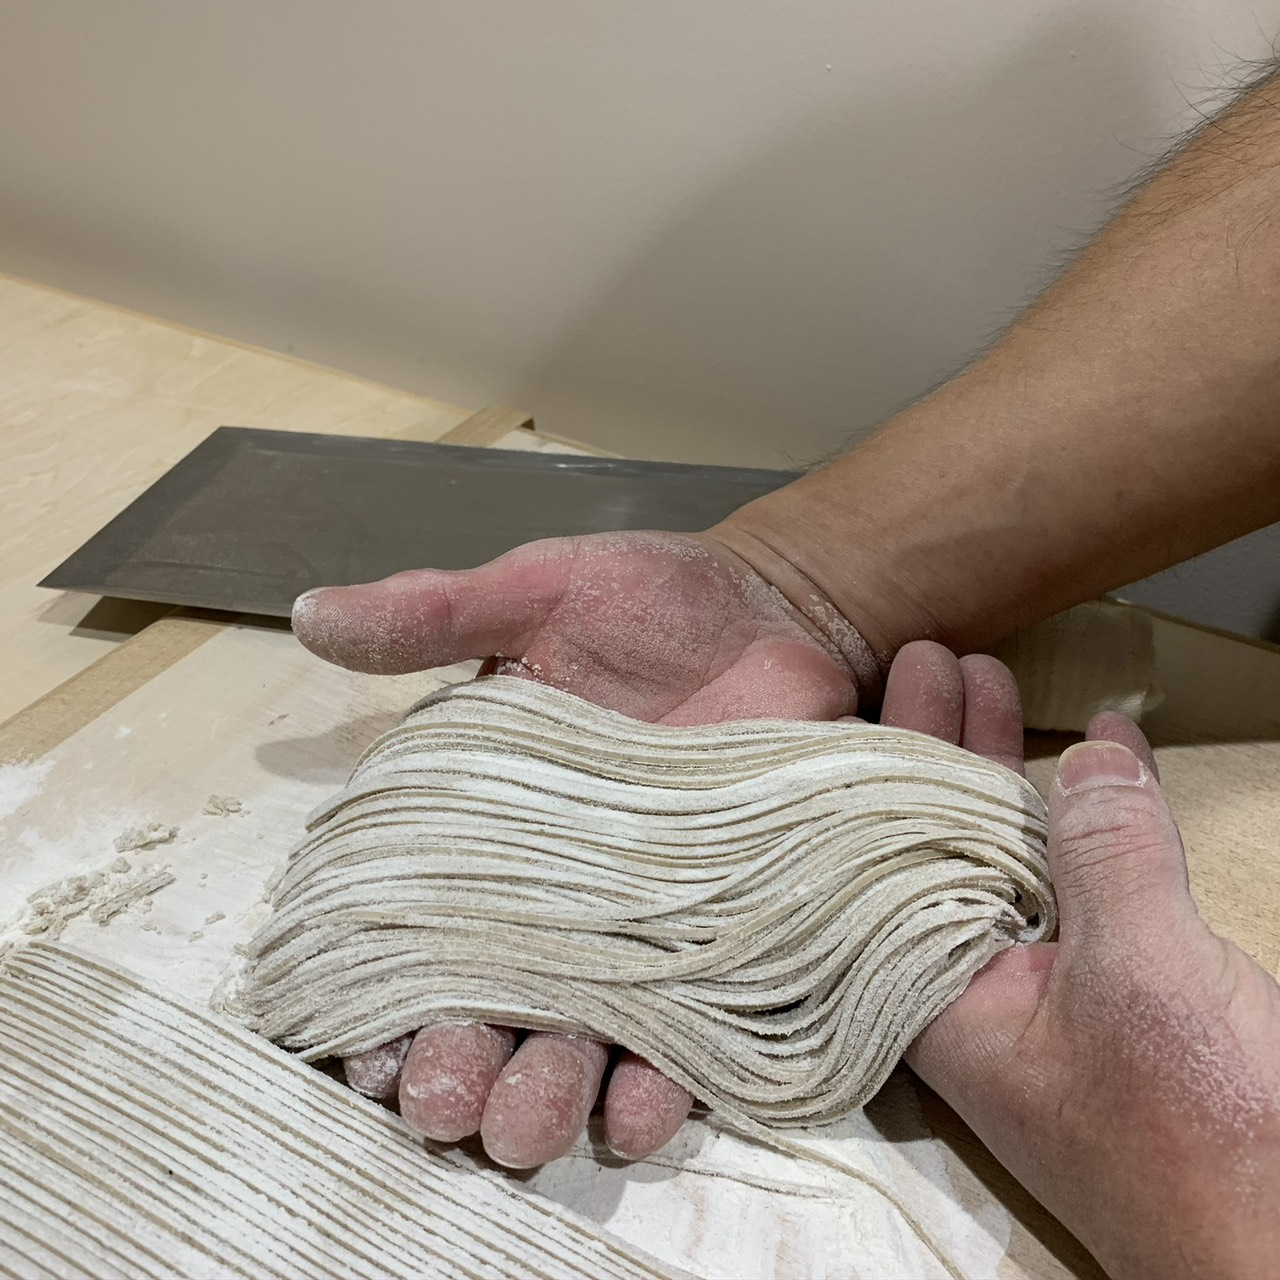
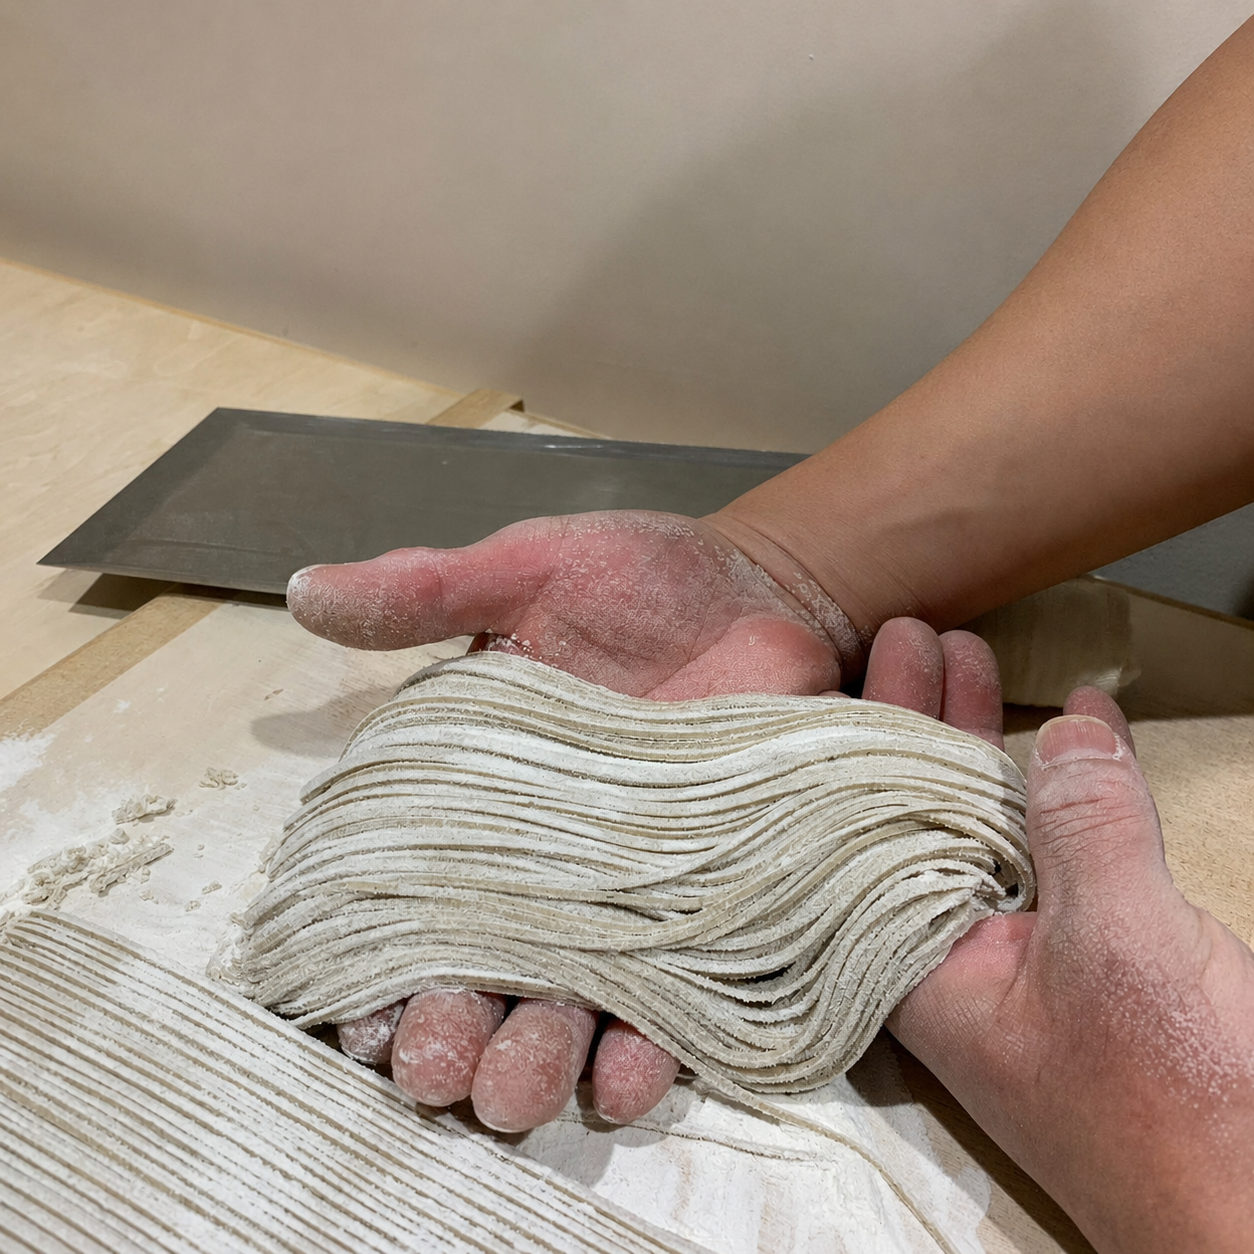
Add files via upload

diff --git a/css/kodawari-responsive.css b/css/kodawari-responsive.css
@@ -1425,3 +1425,209 @@
     height: 210px !important;
   }
 }
+/* =========================================================
+   こだわりページ 03：JAピンネ「牡丹そば」のぼり画像
+========================================================= */
+
+.kodawari-material__photo {
+  width: min(100%, 760px);
+  margin: 28px auto 0;
+  overflow: hidden;
+  border-radius: 6px;
+  box-shadow: 0 6px 18px rgba(46, 74, 62, .08);
+}
+
+.kodawari-material__photo img {
+  display: block;
+  width: 100%;
+  height: auto;
+  object-fit: cover;
+}
+
+/* スマホ表示 */
+@media (max-width: 767px) {
+  .kodawari-material__photo {
+    width: 100%;
+    margin-top: 26px;
+    border-radius: 4px;
+  }
+}
+/* =========================================================
+   こだわりページ 03：牡丹そば画像 + ポイントカード
+========================================================= */
+
+.kodawari-material__visual {
+  display: grid;
+  grid-template-columns: minmax(0, 1.05fr) minmax(360px, 0.95fr);
+  gap: 32px;
+  align-items: stretch;
+  margin-top: 32px;
+}
+
+.kodawari-material__photo {
+  width: 100%;
+  margin: 0;
+  overflow: hidden;
+  border-radius: 6px;
+  box-shadow: 0 6px 18px rgba(46, 74, 62, 0.08);
+}
+
+.kodawari-material__photo img {
+  display: block;
+  width: 100%;
+  height: 100%;
+  min-height: 300px;
+  object-fit: cover;
+  object-position: center center;
+}
+
+.kodawari-material__visual .kodawari-points {
+  display: grid;
+  grid-template-columns: repeat(2, minmax(0, 1fr));
+  gap: 18px;
+  margin: 0;
+  align-content: center;
+}
+
+.kodawari-material__visual .kodawari-points__item {
+  display: flex;
+  align-items: center;
+  justify-content: center;
+  min-height: 92px;
+  padding: 18px 16px;
+  border: 1px solid rgba(46, 74, 62, 0.34);
+  background: rgba(255, 255, 255, 0.42);
+  color: #284f41;
+  font-family: "Noto Serif JP", serif;
+  font-size: 1.05rem;
+  font-weight: 600;
+  line-height: 1.6;
+  letter-spacing: 0.06em;
+  text-align: center;
+}
+
+/* スマホ表示 */
+@media (max-width: 767px) {
+  .kodawari-material__visual {
+    display: block;
+    margin-top: 28px;
+  }
+
+  .kodawari-material__photo {
+    width: 100%;
+    margin: 0 0 24px;
+    border-radius: 4px;
+  }
+
+  .kodawari-material__photo img {
+    width: 100%;
+    height: auto;
+    min-height: 0;
+    object-fit: contain;
+  }
+
+  .kodawari-material__visual .kodawari-points {
+    display: grid;
+    grid-template-columns: 1fr;
+    gap: 14px;
+    margin: 0;
+  }
+
+  .kodawari-material__visual .kodawari-points__item {
+    min-height: 72px;
+    padding: 16px 14px;
+    font-size: 1rem;
+  }
+}
+
+/* =========================================================
+   こだわりページ 04：鴨せいろセクション左右反転
+   PC：左に文章 / 右に画像
+   SP：縦並びを維持
+========================================================= */
+
+@media (min-width: 768px) {
+  .kodawari-duck {
+    display: grid;
+    grid-template-columns: minmax(420px, 0.95fr) minmax(0, 1.05fr);
+    gap: 40px;
+    align-items: stretch;
+  }
+
+  .kodawari-duck__content {
+    order: 1;
+  }
+
+  .kodawari-duck__media {
+    order: 2;
+    margin: 0;
+  }
+
+  .kodawari-duck__media img {
+    display: block;
+    width: 100%;
+    height: 100%;
+    min-height: 420px;
+    object-fit: cover;
+    object-position: center center;
+  }
+}
+
+/* =========================================================
+   04 鴨せいろ画像：スマホ時の余分な下余白を削除
+========================================================= */
+
+@media (max-width: 767px) {
+  .kodawari-duck__media {
+    width: 100%;
+    margin: 0 0 32px;
+    padding: 0;
+    height: auto;
+    min-height: 0;
+    background: transparent;
+    box-shadow: none;
+  }
+
+  .kodawari-duck__media img {
+    display: block;
+    width: 100%;
+    height: auto;
+    min-height: 0;
+    object-fit: contain;
+    object-position: center center;
+    border-radius: 6px;
+  }
+}
+/* =========================================================
+   04 鴨せいろ画像：スマホ時の余白完全修正
+   原因：過去の aspect-ratio: 1 / 1.22 が残っていたため
+========================================================= */
+
+@media (max-width: 767px) {
+  .kodawari-duck__media {
+    display: block !important;
+    width: calc(100% - 48px) !important;
+    height: auto !important;
+    min-height: 0 !important;
+    aspect-ratio: auto !important;
+    margin: 0 auto 32px !important;
+    padding: 0 !important;
+    overflow: hidden !important;
+    border-radius: 4px !important;
+    background: transparent !important;
+    box-shadow: 0 4px 14px rgba(46, 74, 62, .08) !important;
+    line-height: 0 !important;
+  }
+
+  .kodawari-duck__media img {
+    display: block !important;
+    width: 100% !important;
+    height: auto !important;
+    min-height: 0 !important;
+    aspect-ratio: auto !important;
+    object-fit: initial !important;
+    object-position: center center !important;
+    background: transparent !important;
+    border-radius: 4px !important;
+  }
+}

diff --git a/css/style.css b/css/style.css
@@ -2812,27 +2812,33 @@ select {
   width: 100%;
 }
 
+/* =========================================================
+   こだわりページ 03：牡丹そばポイントカード
+========================================================= */
+
 .kodawari-points {
   display: grid;
-  grid-template-columns: repeat(4, minmax(0, 1fr));
-  gap: 14px;
-  margin-top: 24px;
+  grid-template-columns: repeat(2, 1fr);
+  gap: 16px 20px;
+  margin-top: 32px;
 }
 
 .kodawari-points__item {
+  min-height: 72px;
+  padding: 18px 20px;
+  border: 1px solid rgba(46, 74, 62, 0.35);
+  border-radius: 4px;
+  background: rgba(255, 255, 255, 0.28);
+  color: #244d3f;
+  font-family: "Noto Serif JP", serif;
+  font-size: 1rem;
+  font-weight: 600;
+  letter-spacing: 0.06em;
+  line-height: 1.6;
   display: flex;
   align-items: center;
   justify-content: center;
-  min-height: 72px;
-  padding: 14px 16px;
   text-align: center;
-  font-family: var(--font-serif);
-  font-size: .96rem;
-  line-height: 1.65;
-  color: var(--c-primary);
-  background: rgba(250, 246, 240, .88);
-  border: 1px solid rgba(46, 74, 62, .24);
-  border-radius: 4px;
 }
 
 .kodawari-cta {

diff --git a/kodawari.html b/kodawari.html
@@ -137,18 +137,25 @@
         <div class="kodawari-material">
           <div class="kodawari-block__label">03</div>
           <h2 class="kodawari-block__title">北海道浦臼産そば粉「牡丹」</h2>
+    
           <p class="kodawari-material__text">
             幻庵では、北海道浦臼産のそば粉「牡丹」を使用しています。<br>
             「牡丹」は生産量が少なく、安定して仕入れることが難しい希少価値のある品種です。北海道内でも使用している店舗は多くありません。<br>
-            また、幻庵はJAから認定を受けた蕎麦店として、北海道産そば粉の風味を大切にした一杯をお届けしています。
+            また、幻庵ではJAピンネの「牡丹そば」を使用し、北海道産そば粉の風味を大切にした一杯をお届けしています。
           </p>
-          <div class="kodawari-points">
-            <div class="kodawari-points__item">北海道浦臼産</div>
-            <div class="kodawari-points__item">そば粉「牡丹」使用</div>
-            <div class="kodawari-points__item">JA認定蕎麦店</div>
-            <div class="kodawari-points__item">希少な品種</div>
+    
+          <div class="kodawari-material__visual">
+            <figure class="kodawari-material__photo">
+              <img src="images/ja-pinne-botan-soba.jpg" alt="JAピンネの牡丹そばを示すのぼり旗">
+            </figure>
+          
+            <div class="kodawari-points">
+              <div class="kodawari-points__item">北海道浦臼産</div>
+              <div class="kodawari-points__item">そば粉「牡丹」使用</div>
+              <div class="kodawari-points__item">JAピンネ「牡丹そば」</div>
+              <div class="kodawari-points__item">希少な品種</div>
+            </div>
           </div>
-        </div>
       </div>
     </section>
 